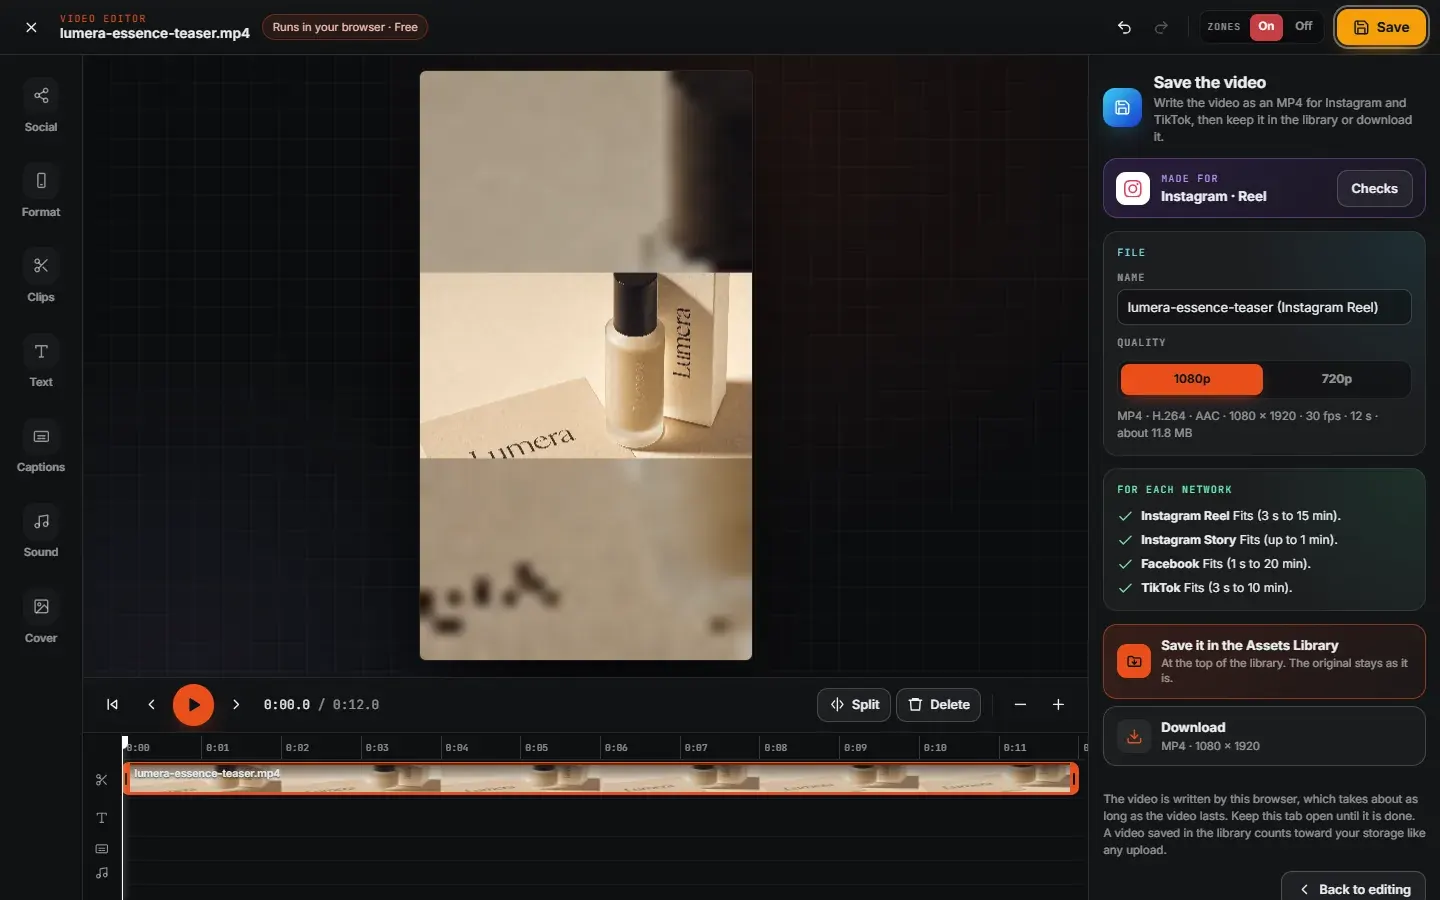
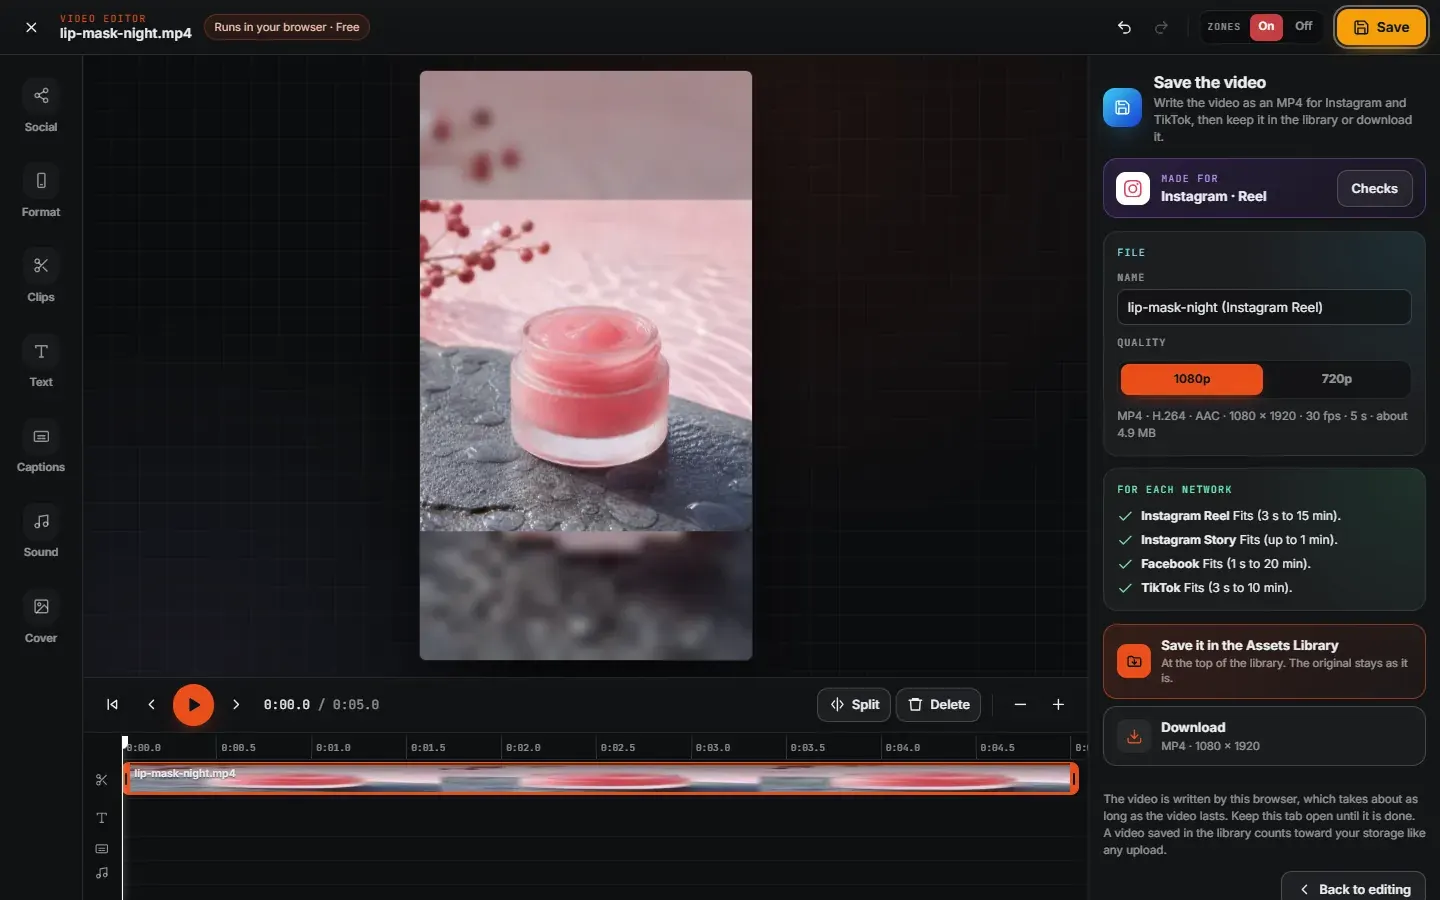
Help: the four Video editor captures retaken on a clean demo clip (the old teaser showed blocky decoding glitches); the Checks caption follows the new screen.
Synced from hubstudio-site/help.

diff --git a/src/content/help/assets-library.md b/src/content/help/assets-library.md
@@ -61,22 +61,22 @@ shots:
     route: "/files/tools/video-editor"
     clip: "the Video editor, Social panel"
     alt: "The Social panel of the Video editor on Instagram, Reel picked and applied with Fit it whole: the red zones Name and progress bar and Caption, reply box and buttons over the preview, the dashed Profile grid crop, and the Zones switch on in the top bar"
-    captured: 2026-10-01
+    captured: 2026-10-03
   - file: "/Images/help/video-editor-social-checks.webp"
     route: "/files/tools/video-editor"
     clip: "the Video editor, Social panel, lower half"
-    alt: "The lower half of the Social panel: How it will show with Full screen and On the profile grid, the Checks with Make the captions under the warning on captions, Save for Instagram and Good practice on Instagram"
-    captured: 2026-10-01
+    alt: "The lower half of the Social panel: How it will show with Full screen and On the profile grid, the Checks with Add music under the warning on a clip with no sound, Save for Instagram and Good practice on Instagram"
+    captured: 2026-10-03
   - file: "/Images/help/video-editor-format.webp"
     route: "/files/tools/video-editor"
     clip: "the Video editor, Format panel"
     alt: "The Video editor on a wide product clip set to Vertical 9:16 and Fit, blurred, with Social first on the rail, the transport bar and the clip on the timeline"
-    captured: 2026-10-01
+    captured: 2026-10-03
   - file: "/Images/help/video-editor-save.webp"
     route: "/files/tools/video-editor"
     clip: "the Video editor, Save panel"
     alt: "The Save the video panel after Apply the format: Made for Instagram, Reel with its Checks button, the name ending in (Instagram Reel), 1080p or 720p, the file details, Fits for Instagram Reel, Instagram Story, Facebook and TikTok, then Save it in the Assets Library and Download"
-    captured: 2026-10-01
+    captured: 2026-10-03
   - file: "/Images/help/instagram-picture-edit.webp"
     route: "/social/instagram/posts"
     clip: "the picture step of a post"
@@ -357,7 +357,7 @@ Once a placement is picked, the panel also shows:
 
 Many checks carry a button that fixes what they found: **Apply the format**, **Cut it at** the longest length taken, **Write it in 1080p**, **Move the captions into the safe area**, **Move the words into the safe area**, **Make the captions** (opens the Captions panel) and **Add music** (opens the Sound panel).
 
-![The lower half of the Social panel: How it will show with Full screen and On the profile grid, the Checks with Make the captions under the warning on captions, Save for Instagram and Good practice on Instagram](/Images/help/video-editor-social-checks.webp)
+![The lower half of the Social panel: How it will show with Full screen and On the profile grid, the Checks with Add music under the warning on a clip with no sound, Save for Instagram and Good practice on Instagram](/Images/help/video-editor-social-checks.webp)
 
 ### Format
 
